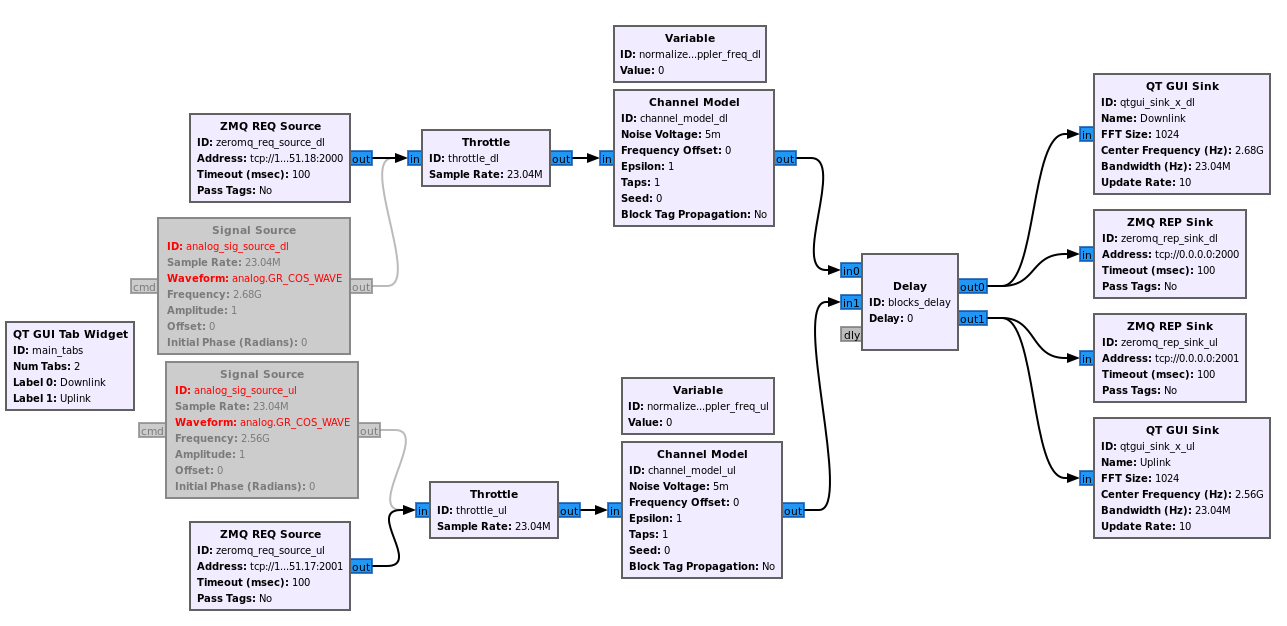
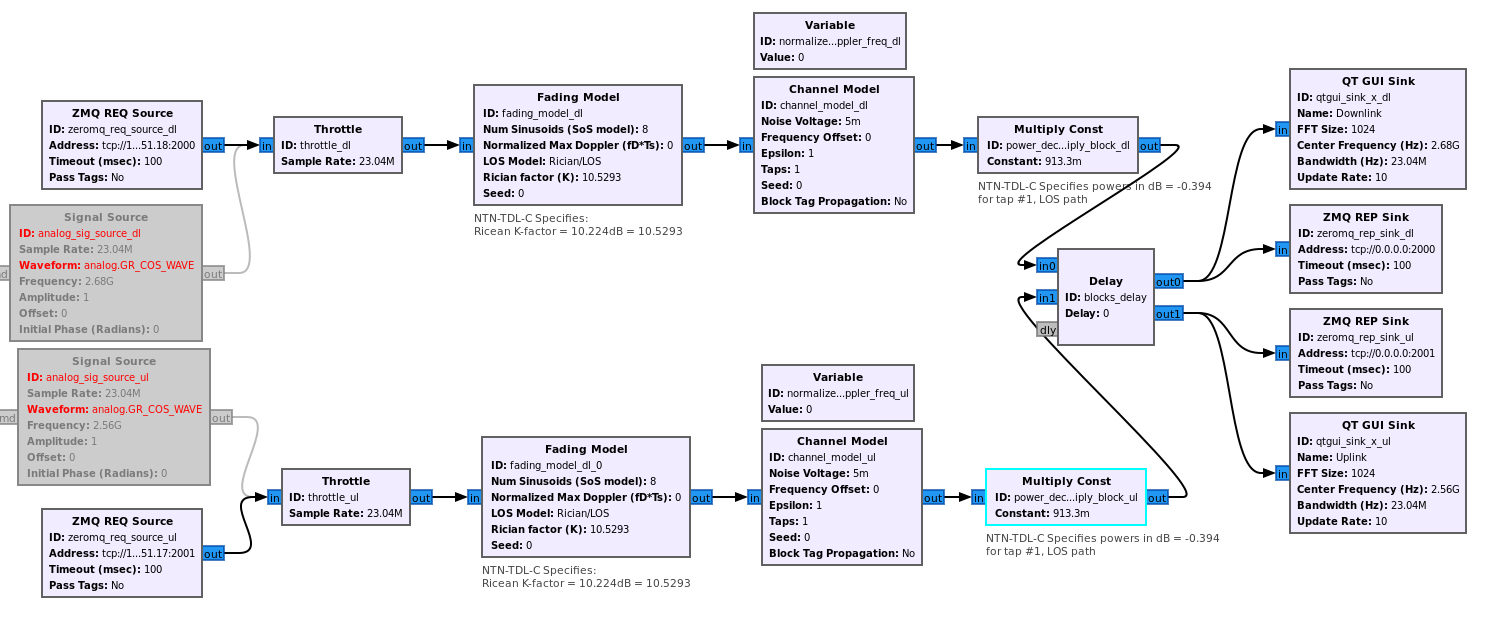
docs: update current status

Changed region(s): [[0.0, 0.0, 0.9946, 0.9822], [0.9635, 0.8288, 0.9946, 0.8595]]

diff --git a/README.md b/README.md
@@ -9,7 +9,7 @@ This project is a part of the research work on the implementation of Doppler-tol
 - GNURadio
 - Matplotlib
 
-# Current Status (As of October 17th, 2024)
+# Current Status (As of October 19th, 2024)
 
 - This project is currently under development and for research purposes only.
 - The simulator is implemented under the following assumptions:
@@ -17,7 +17,7 @@ This project is a part of the research work on the implementation of Doppler-tol
   - The UE is stationary and the satellite is moving
   - The satellite is in a perfect circular orbit with a fixed altitude
   - The satellite is orbiting just right above the UE
-  - The channel is LOS with no fading (yet)
+  - 3GPP NTN-TDL-C channel model is adopted, LoS only
 - The srsRAN gNB and UE are configured to connect to the ZeroMQ RF interface.
 - IP addresses of srsRAN gNB and UE are hardcoded in the GNURadio flowgraph.
 
@@ -53,8 +53,8 @@ After running the simulator, start the srsRAN gNB and UE with proper configurati
 # TODOs
 
 - [X] Add noise
-- [ ] Add fading
+- [X] Add fading
 - [ ] Add command line options for srsRAN UE & gNB IP addresses
-- [ ] Add channel models such as NTN-TDL-C
+- [X] Add channel models such as NTN-TDL-C
 - [ ] Implement and test on real RF devices such as USRP
 - [ ] Interactive GUI for the satellite & UE plot
